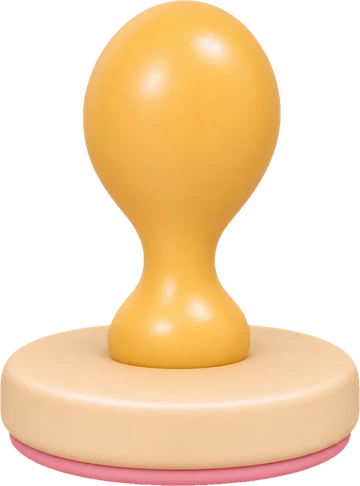
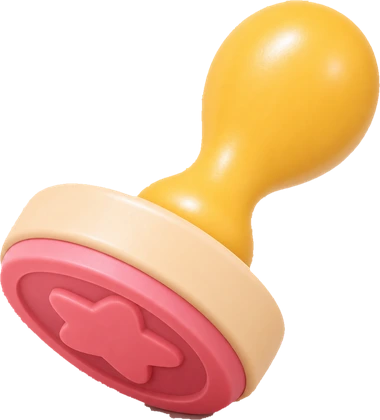
도장 찍는 도구 그림을 기울어진 도장으로 교체(자국 위치에 맞춰 내려앉음)
Claude-Session: https://claude.ai/code/session_011wWXPXnze52o5KWQFUTAEb

diff --git a/public/styles.css b/public/styles.css
@@ -477,3 +477,7 @@ img.emo { display: inline-block; height: 1.18em; width: auto; vertical-align: -.
 @media (max-width: 520px) { .cell.on .st img.emo { height: 2em; } }
 .stamp-grid .cell { aspect-ratio: auto; min-height: 112px; } .stamp-grid .cell .no { margin: auto; } .stamp-grid.small .cell { aspect-ratio: 1; min-height: 0; }
 @media (max-width: 520px) { .stamp-grid .cell { min-height: 92px; } }
+
+/* 도장 도구(기울어진 그림): 분홍 도장 면의 중심(그림의 30%,76%)이 자국 위치(장면 가운데)에 내려앉도록 맞춘다 */
+.stamp-tool { width: 190px; margin-left: 0; left: calc(50% - 57px); bottom: 2px; transform-origin: 30% 96%; }
+@keyframes stampslam { 0% { transform: translateY(-330px) rotate(-10deg); opacity: 0; } 8% { opacity: 1; } 20% { transform: translateY(-90px) rotate(-3deg); } 34% { transform: translateY(10px) rotate(0) scale(1.04, .94); opacity: 1; } 38% { transform: translateY(0) rotate(0) scale(.98, 1.03); } 46% { transform: translateY(5px) scale(1); } 50% { transform: translateY(6px); opacity: 1; } 58% { transform: translateY(-40px) rotate(-3deg); opacity: 1; } 72% { transform: translateY(-240px) rotate(-6deg); opacity: 1; } 82%, 100% { transform: translateY(-330px) rotate(-10deg); opacity: 0; } }
